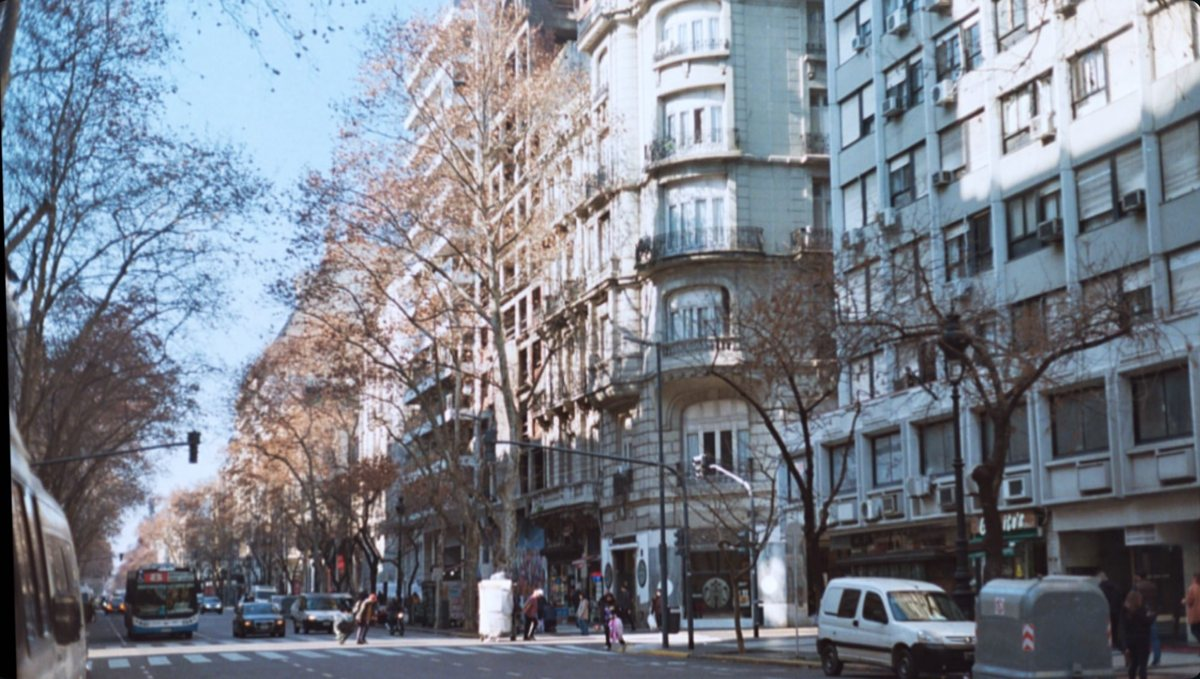
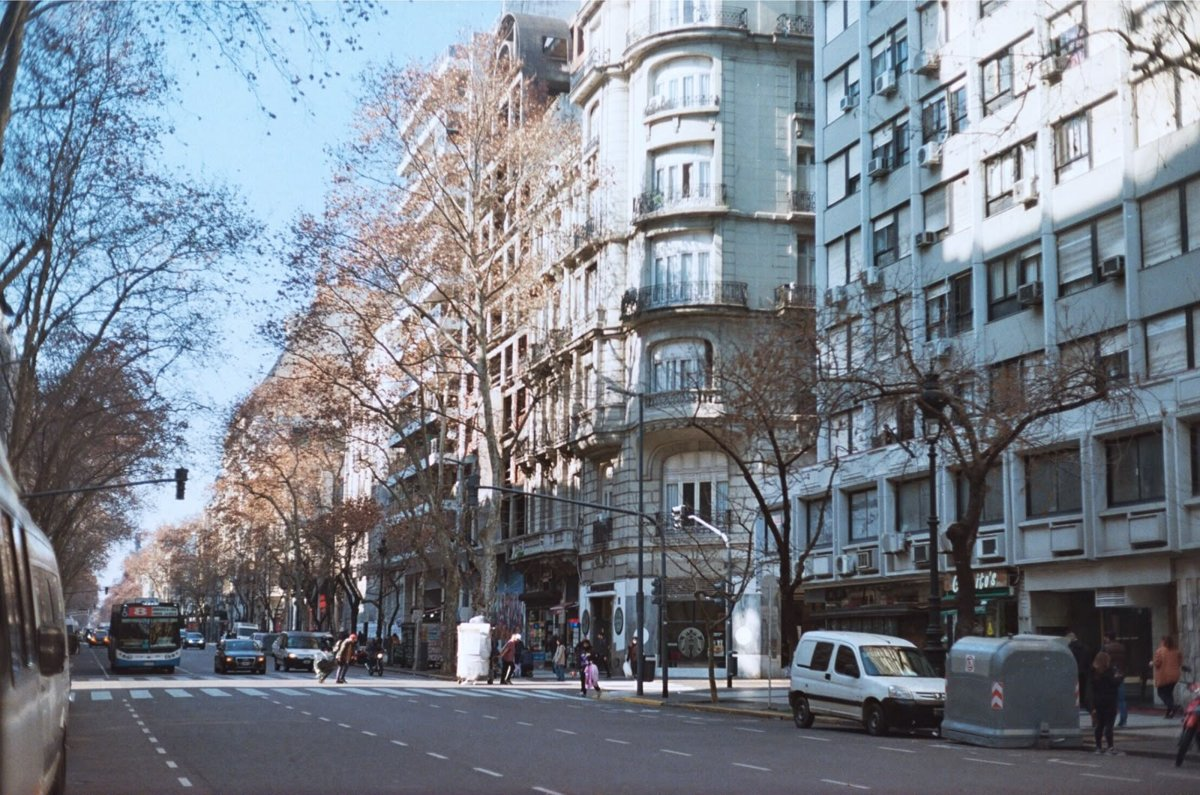
Decoración con pintura propia, fotos nuevas

diff --git a/index.html b/index.html
@@ -1136,6 +1136,20 @@ h2 em, h3 em { font-style: normal; color: inherit; }
   .serie-color { padding: 5rem 1.6rem; }
   .serie-grid { grid-template-columns: 1fr 1fr; gap: .8rem; }
 }
+
+/* ══ DECORACIÓN CON PINTURA PROPIA ══ */
+.franja-pincel { height: 34vh; min-height: 200px; background: #2a2420 url('img/vida/pincelada.jpg') center 45% / cover no-repeat; }
+.contacto-left { display: grid; grid-template-columns: 1fr 150px; column-gap: 2.4rem; align-content: start; }
+.contacto-left > *:not(.contacto-fig) { grid-column: 1; }
+.contacto-fig { grid-column: 2; grid-row: 1 / span 4; margin: .6rem 0 0; }
+.contacto-fig img { width: 100%; height: auto; display: block; }
+.pie-cielo { height: 26vh; min-height: 160px; background: url('img/detalles/pie-cielo.jpg') center 40% / cover no-repeat;
+  -webkit-mask-image: linear-gradient(to bottom, transparent, #000 45%); mask-image: linear-gradient(to bottom, transparent, #000 45%); }
+footer { border-top: none; }
+@media (max-width: 768px) {
+  .franja-pincel { height: 22vh; }
+  .contacto-left { grid-template-columns: 1fr 96px; column-gap: 1.2rem; }
+}
 </style>
 </head>
 <body>
@@ -1259,6 +1273,8 @@ h2 em, h3 em { font-style: normal; color: inherit; }
     <figure><img src="img/vida/edificio.jpg" alt="Fotografía analógica de un edificio con un árbol" loading="lazy"></figure>
     <figure><img src="img/vida/analogica-farol.jpg" alt="Fotografía analógica de un farol y un vitral" loading="lazy"></figure>
     <figure><img src="img/vida/analogica-arbol.jpg" alt="Fotografía analógica de un árbol rosado" loading="lazy"></figure>
+    <figure><img src="img/vida/piano.jpg" alt="Fotografía en blanco y negro del interior de un piano" loading="lazy"></figure>
+    <figure><img src="img/vida/textura-naranja.jpg" alt="Detalle de una acuarela en naranja" loading="lazy"><figcaption data-es="Detalle de acuarela" data-en="Watercolor detail">Detalle de acuarela</figcaption></figure>
   </div>
 </section>
 <!-- TIENDA -->
@@ -1323,6 +1339,7 @@ h2 em, h3 em { font-style: normal; color: inherit; }
     <span class="section-tag" data-es="Contacto" data-en="Contact">Contacto</span>
     <h2 data-es="Contacto" data-en="Contact">Contacto</h2>
     <p data-es="Escribime por una obra, un encargo o cualquier consulta. Te respondo por WhatsApp." data-en="Write to me about a work, a commission or anything else. I reply on WhatsApp.">Escribime por una obra, un encargo o cualquier consulta. Te respondo por WhatsApp.</p>
+    <figure class="contacto-fig"><img src="img/vida/pincelada.jpg" alt="Detalle de una pincelada en acuarela" loading="lazy"></figure>
     <div class="contacto-datos">
       <div><span class="dato-label">Email</span><span class="dato-value">santiornaghi@gmail.com</span></div>
       <div><span class="dato-label" data-es="Teléfono" data-en="Phone">Teléfono</span><span class="dato-value">+54 358 439 0961</span></div>
@@ -1369,6 +1386,7 @@ h2 em, h3 em { font-style: normal; color: inherit; }
 </section>
 
 <!-- FOOTER -->
+<div class="pie-cielo" aria-hidden="true"></div>
 <footer>
   <div class="footer-logo">
[1 lines of base64/hex data omitted]
